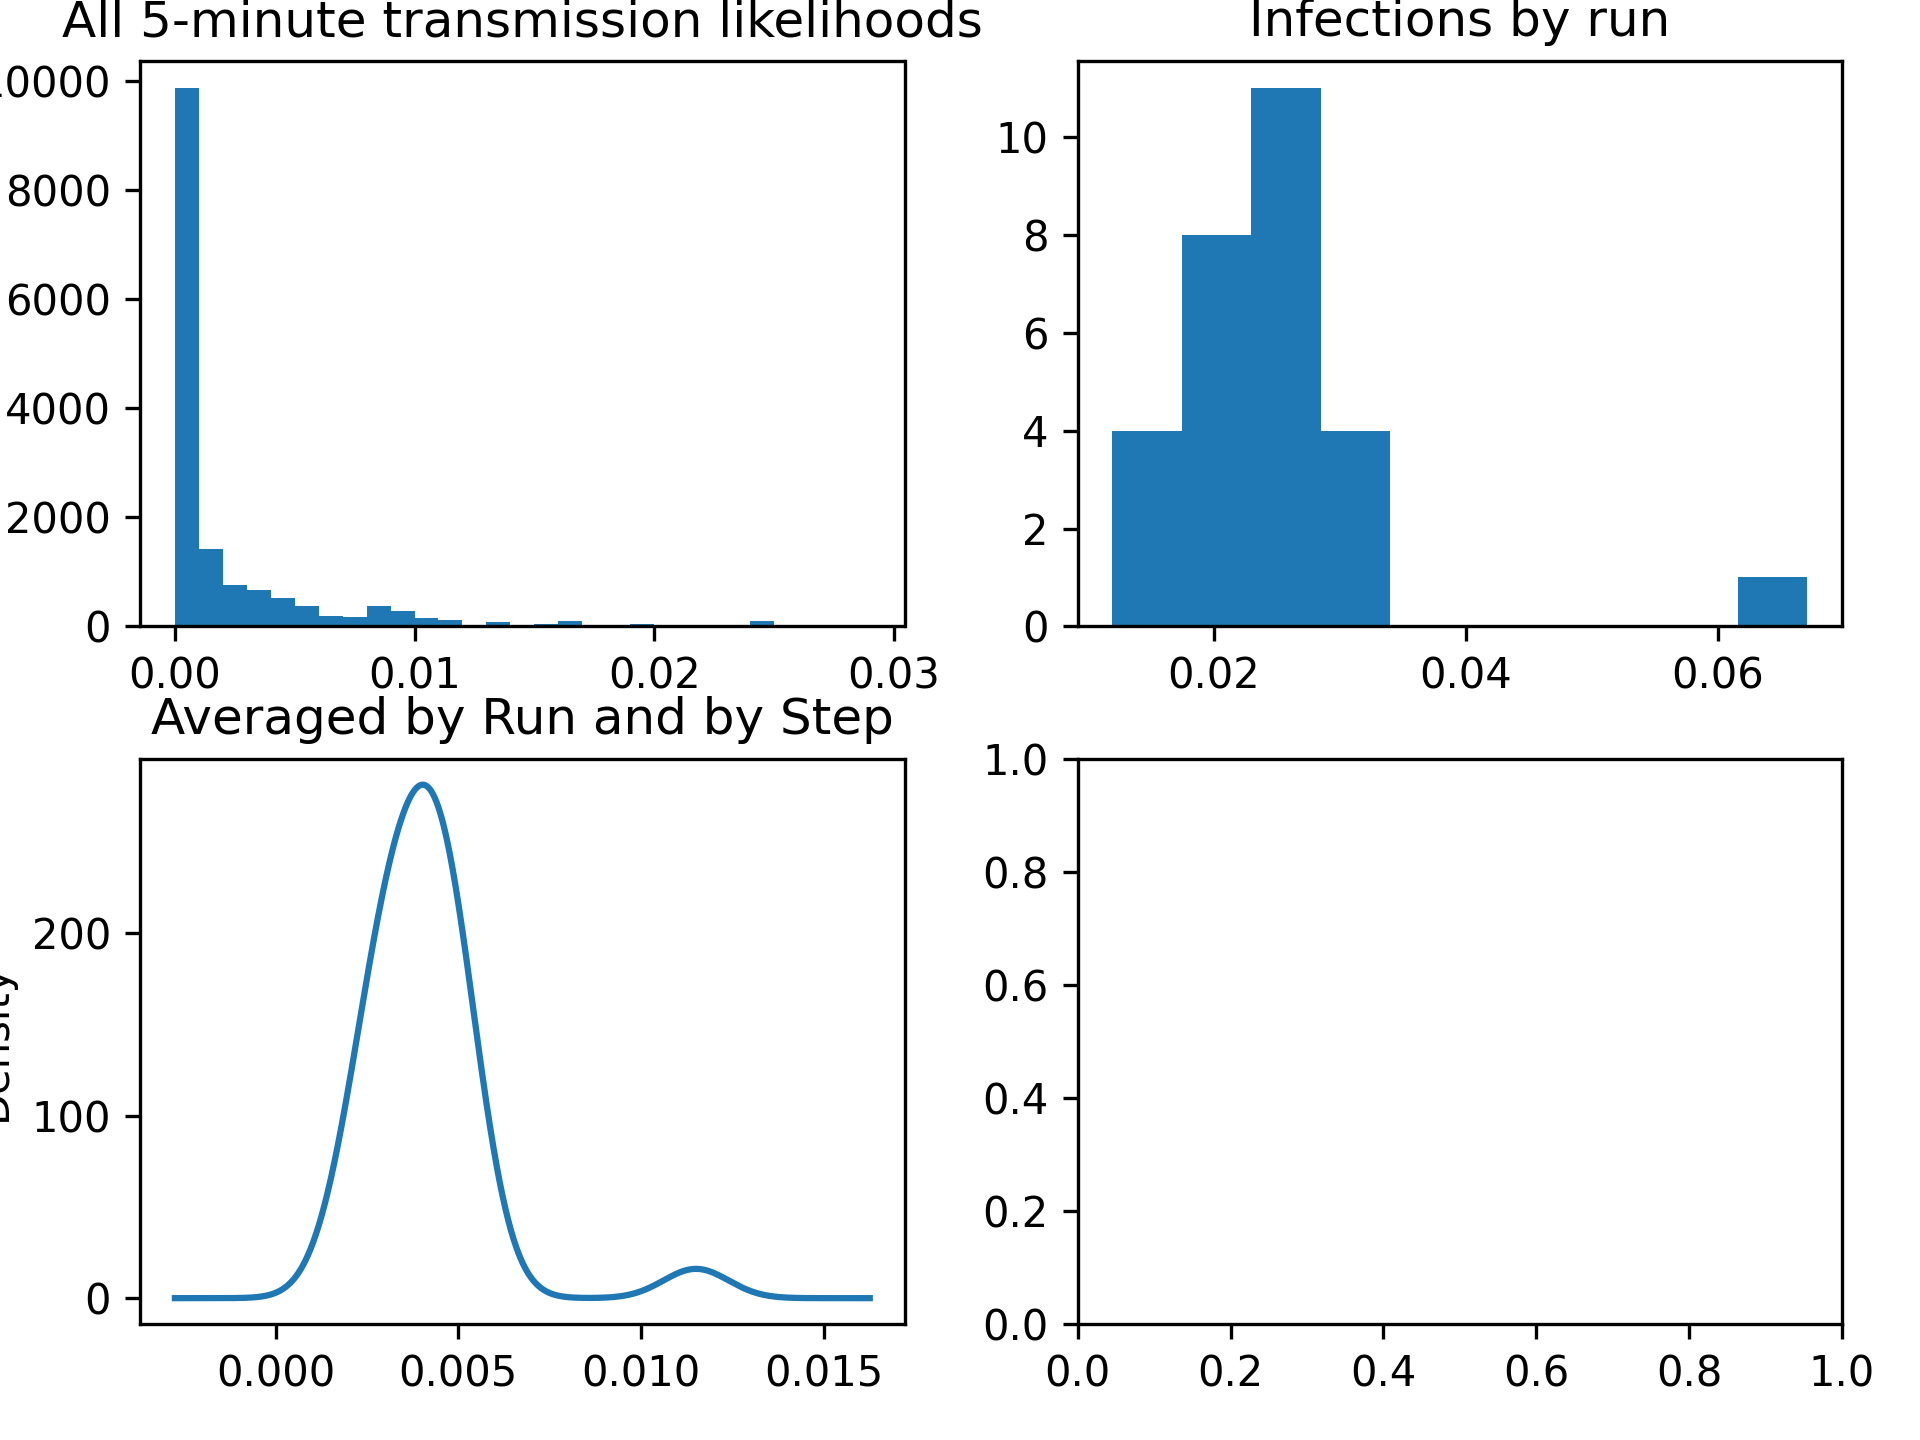
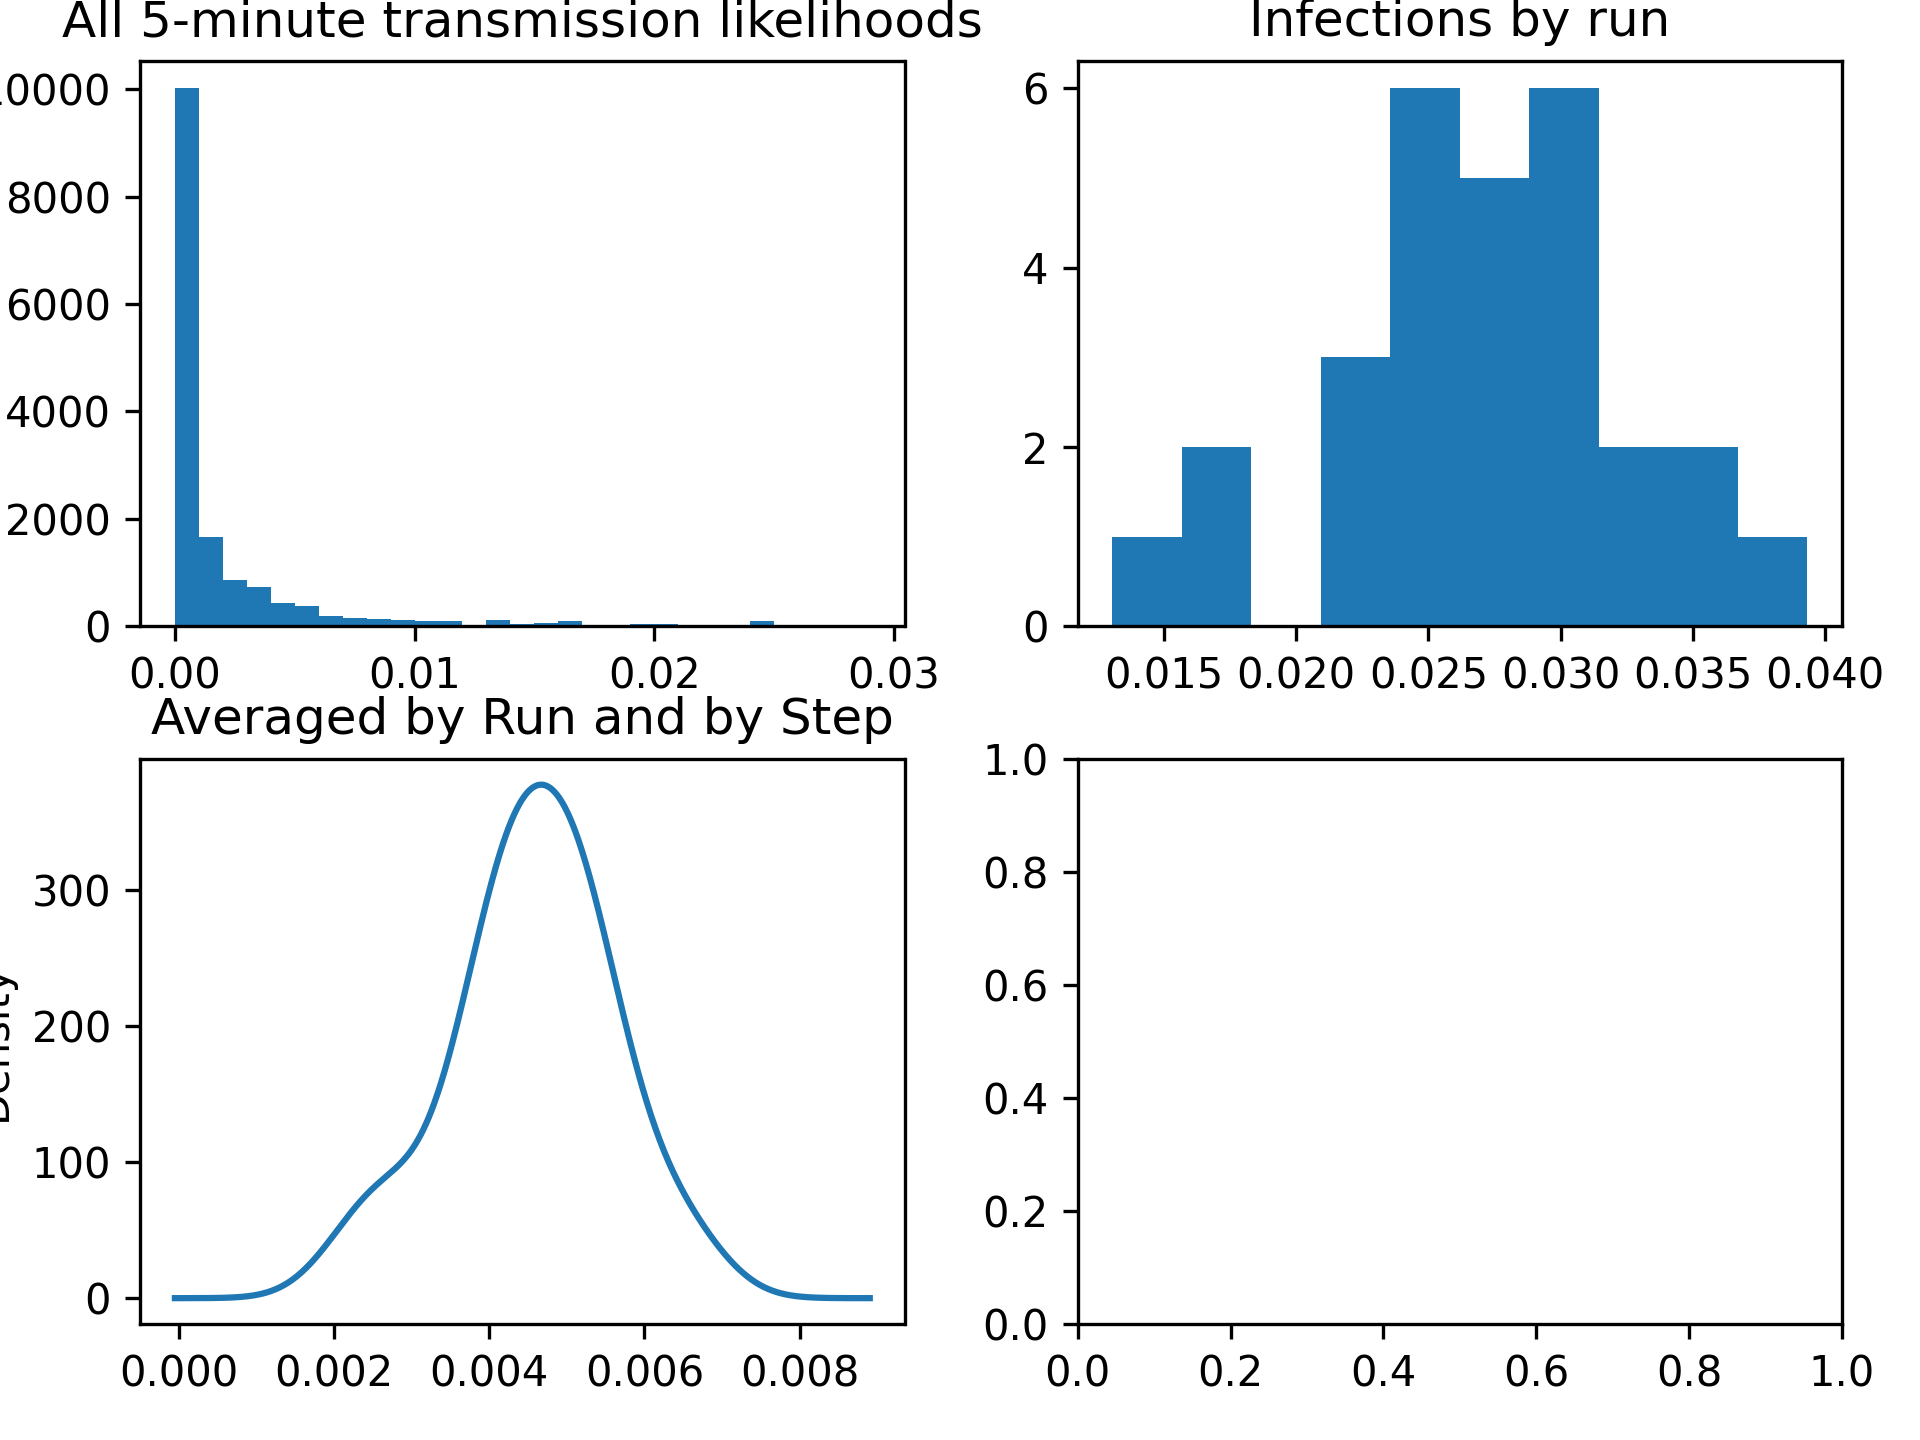
AV_Bus

diff --git a/av.py b/av.py
@@ -4,6 +4,7 @@ import sys
 import os
 import pandas as pd
 import numpy as np
+import seaborn as sns
 import matplotlib.pyplot as plt
 import matplotlib as mpl
 
@@ -245,6 +246,10 @@ class user_viz():
         for w in window_types:
             bus_out_array, conc_array, out_mat, chance_nonzero, avg_mat = bus_sim(int(self.students_var), self.mask_var, self.number_simulations, self.trip_length, self.seat_var, w) # WINDOW
             x_range = [.051, .102, .153, .204]
+
+
+
+
             for i in range(len(x_range)):
                 if x_range[i] < max(bus_out_array[2].values()):
                     pass
@@ -255,8 +260,14 @@ class user_viz():
 
             # TODO: Check all values of KDE are positive
 
-            pd.Series(bus_out_array[2]).plot.kde(alpha=.5, ax=ax2)
-            pd.Series(bus_out_array[2]).plot.hist(alpha=.5, ax=ax2)
+            # pd.Series(bus_out_array[2]).plot.kde(alpha=.5, ax=ax2)
+            # pd.Series(bus_out_array[2]).plot.hist(alpha=.5, ax=ax2)
+
+            ###############################################
+
+            # SEABORN
+            sns.distplot(list(bus_out_array[2].values()), ax=ax2, rug=True, kde=False, hist_kws={"histtype": "step", "linewidth": 3, "alpha": 1})
+
 
         fig2.legend(['Windows Closed', 'Windows Open 6 Inches'])
         plt.xlabel('Mean likelihood of transmission at each step')
@@ -272,10 +283,13 @@ class user_viz():
         fig3 = plt.figure(3)
         mask_amount = [1, .9, .8, .7]
         print('start masks')
+        colorlist = ['blue', 'green', 'yellow', 'red']
+        count_ = 0
+
         for m in mask_amount:
             bus_out_array, conc_array, out_mat, chance_nonzero, avg_mat = bus_sim(int(self.students_var), m, self.number_simulations, self.trip_length, self.seat_var, self.window_var) # SEATING
-            pd.Series(bus_out_array[2]).plot.hist(bins=np.arange(0, 0.056, 0.001), alpha=.5)
-
+            pd.Series(bus_out_array[2]).plot.hist(bins=np.arange(0, 0.056, 0.001), alpha=.5, color=colorlist[count_])
+            count_ += 1
         plt.legend(['100% Mask compliance', '90% Mask compliance', '80% Mask compliance', '70% Mask compliance'])
         plt.xlabel('Mean likelihood of transmission at each step')
         plt.ylabel('Number of students with this average risk of transmission')
@@ -300,7 +314,8 @@ class user_viz():
         axs[0,1].hist(pd.Series(bus_out_array[2]))#, bins=np.arange(0, .1, .001))
         axs[0,1].set_title('Infections by run')
 
-        # print(bus_out_array[3]["0"])
+
+        print(bus_out_array[2])
         # axs[1,1] = fig.add_subplot(111)
         # axs[1,1].scatter(bus_out_array[5]["distance"], bus_out_array[5]["transmission rate"], s=2, color='green', label='far')
         # axs[1,1].scatter(bus_out_array[2]["distance"], bus_out_array[2]["transmission rate"], s=2, color='yellow', label='nearby')
